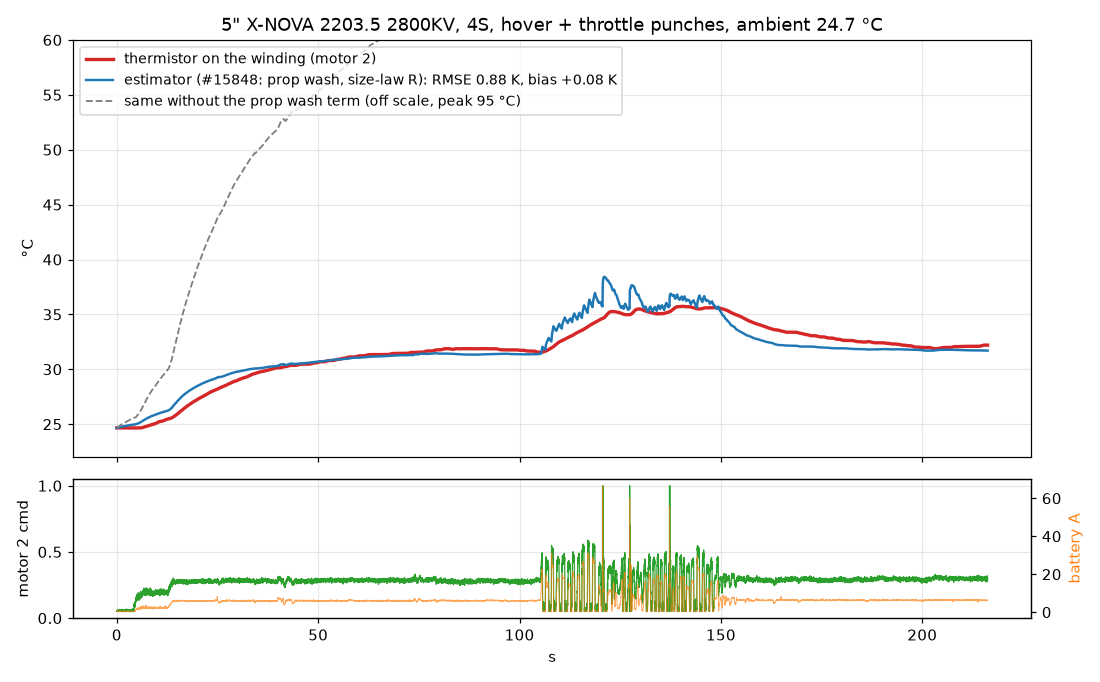
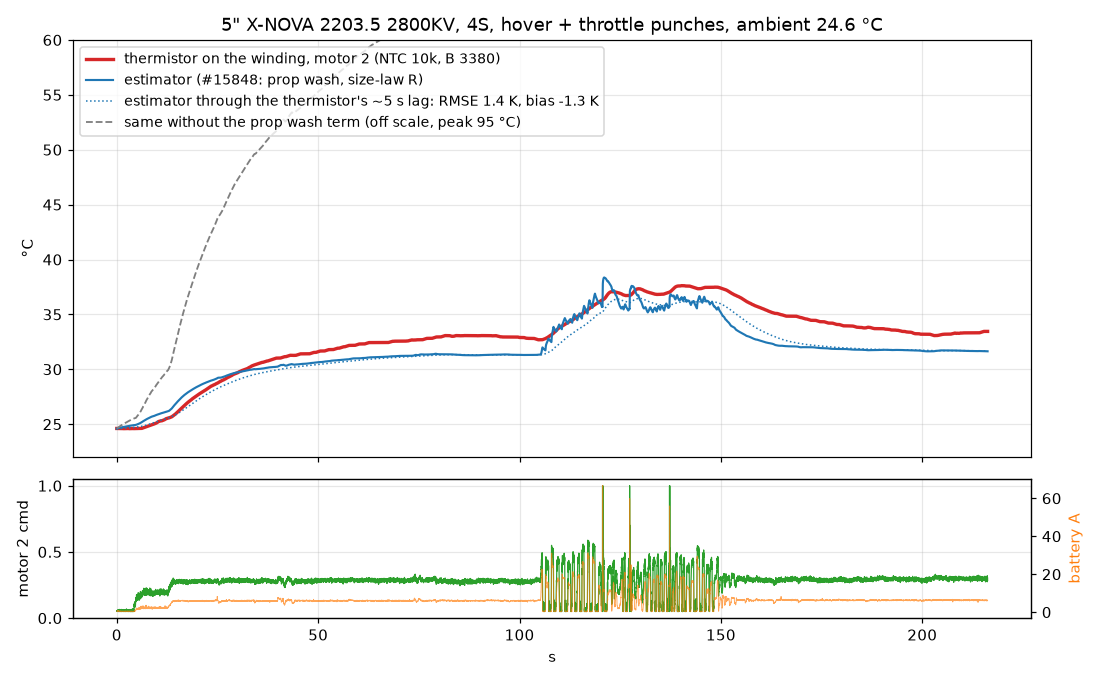
Motor thermal assets: thermistor flight with the part's B 3380
The first version converted the NTC with B 3950; the part (SR Passives NTCM-HP-10K-1%) has B 3380, which reads 2 °C higher at 37 °C. The estimator now reads 10-20 % low on the rise (RMSE 1.6 K).

Changed region(s): [[0.0618, 0.0616, 0.5564, 0.2155], [0.0927, 0.4003, 0.8964, 0.6466]]

diff --git a/motor-thermal/flight-ntc/ntc_replay.py b/motor-thermal/flight-ntc/ntc_replay.py
@@ -25,7 +25,7 @@ a, t, idx = a[::step], t[::step], idx[::step]
 vbat, amps = a[:, 1] * 0.01, a[:, 2] * 0.01 * float(os.environ.get("AMPS_K", "1"))
 cmd = np.clip((a[:, 4:8] - 48) / 1999, 0, 1); rpm = a[:, 8:12] * 100 / (POLES / 2)
 v = np.clip(a[:, 3], 1, 1022); r = 3300 * v / (1023 - v)
-ntc = 1 / (1 / 298.15 + np.log(r / 10000) / 3950) - 273.15
+ntc = 1 / (1 / 298.15 + np.log(r / 10000) / float(os.environ.get("NTC_B", "3950"))) - 273.15
 onboard = a[:, 12:16] / 10
 def run(ev, tamb, t0, extra_env=None):
     path = os.path.join(OUT, "ntc_fl4.csv")

diff --git a/motor-thermal/flight-ntc/ntc_flight.py b/motor-thermal/flight-ntc/ntc_flight.py
@@ -3,7 +3,7 @@ import math, sys
 import numpy as np
 from orangebox import Parser
 
-B, RPULL, R25 = 3950.0, 3300.0, 10000.0
+B, RPULL, R25 = 3380.0, 3300.0, 10000.0
 path, out = sys.argv[1], sys.argv[2]
 p = Parser.load(path)
 names = p.field_names

diff --git a/motor-thermal/flight-ntc/README.md b/motor-thermal/flight-ntc/README.md
@@ -6,7 +6,7 @@ Craft: 5", X-NOVA Lightning V2 2203.5 2800KV, 4S, HAKRCF411D, Bluejay 0.21 ESCs,
 
 ## Sensor
 
-NTC 10k (B 3950) glued with thermal paste and epoxy to the end turns of motor 2, wires along the arm under kapton.
+NTC 10k 1 %, B 3380 K (SR Passives NTCM-HP-10K-1%, epoxy bead Ø3 × 4.5 mm) glued with thermal paste and epoxy to the end turns of motor 2, wires along the arm under kapton.
 Divider on the free TX2 pad (PA2, ADC1_IN2):
 
     3V3 ── 3.3 kΩ ──┬── PA2 (TX2)
@@ -19,8 +19,8 @@ Divider on the free TX2 pad (PA2, ADC1_IN2):
     set blackbox_disable_rssi = OFF
     set debug_mode = MOTOR_THERMAL
 
-The blackbox `rssi` field is the ADC / 4 (v = 0..1023): R_ntc = 3300·v / (1023 − v), T = 1 / (1/298.15 + ln(R/10k) / B) − 273.15.
-At rest the thermistor read 26.3 °C against 26.8 °C on a thermal camera aimed at the same spot.
+The blackbox `rssi` field is the ADC / 4 (v = 0..1023): R_ntc = 3300·v / (1023 − v), T = 1 / (1/298.15 + ln(R/10k) / B) − 273.15, B = 3380.
+At rest the thermistor read 26.5 °C against 26.8 °C on a thermal camera aimed at the same spot.
 
 ## Flight
 
@@ -33,26 +33,30 @@ logged rpm, motor commands, battery voltage and current:
 
 - the current sensor scale was 400 instead of the board's 160: the logged current is multiplied by 2.5 (hover 6 A, ~80 W);
 - the ambient came from the board sensors (gyro / baro / MCU, 34 °C on a board warmed by USB): the replay starts at the
-  thermistor's 24.7 °C. The firmware now asks the ESCs for extended telemetry before arming, so a cold ESC sets the ambient
+  thermistor's 24.6 °C. The firmware now asks the ESCs for extended telemetry before arming, so a cold ESC sets the ambient
   (24–27 °C against 25.8 °C on the thermistor on this craft);
 - the noise index is recomputed from the 1 kHz motor log (the firmware computes it at the PID rate).
 
 ![thermistor vs estimator](../pr-assets/flight_ntc_vs_estimator.png)
 
-| motor 2, whole flight | |
-|---|---|
-| estimator vs thermistor (1 s average) | **RMSE 0.88 K, bias +0.08 K, max 3.7 K** |
-| end of the flight | 31.7 °C vs 32.2 °C |
-| peak during the punches | 38.4 °C at 121 s vs 35.7 °C at 140 s |
-| the same estimator without the prop wash term | RMSE 39.8 K (peak 95 °C) |
+| motor 2 | thermistor | estimator | estimator / thermistor rise |
+|---|---|---|---|
+| hover before the punches (80–100 s), rise | 8.4 K | 6.7 K | 0.80 |
+| end of the punches (140–150 s), rise | 12.9 K | 11.5 K | 0.89 |
+| hover after the punches (200–215 s), rise | 8.6 K | 7.1 K | 0.82 |
+| peak | 37.7 °C | 38.4 °C | |
+| whole flight (1 s average) | | RMSE 1.6 K, bias −1.2 K, max 3.2 K | |
+| the same estimator without the prop wash term | | RMSE 38.5 K (peak 95 °C) | |
 
+The estimator reads 10–20 % low on the rise in this flight. The thermistor lags by a few seconds (glued bead): through a
+5 s first-order lag the estimator gives RMSE 1.4 K, bias −1.3 K, so the lag explains the punch peaks, not the offset.
 No constant was changed for this comparison.
 
 ## Limits
 
 - One flight, one motor, and it is the 2203.5 the bench calibration was made on: this checks the in-flight physics
   (prop wash, airflow, current split), not the size scaling.
-- Mild heating (+11 K); a hot flight (sustained full throttle) is not covered yet.
+- Mild heating (+13 K); a hot flight (sustained full throttle) is not covered yet.
 - The current scale 160 is the board default, not checked against a charger yet.
 - The thermistor sits on the surface of the end turns and lags; part of the 3.7 K peak difference may be the sensor.
 - Next: the same flight on the new build (on-board estimate directly against the thermistor), then another motor size.
@@ -60,7 +64,7 @@ No constant was changed for this comparison.
 ## Reproduce
 
     python ntc_flight.py ntc_hover_20261022.bbl out          # thermistor and on-board debug, per 20 s
-    AMPS_K=2.5 python ntc_replay.py ntc_hover_20261022.bbl out EVAL_OLD EVAL_NEW
+    NTC_B=3380 AMPS_K=2.5 python ntc_replay.py ntc_hover_20261022.bbl out EVAL_OLD EVAL_NEW
 
 `EVAL_*` are host builds of `flight/motor_thermal.c` (four-motor driver around the firmware file, as used for the bench
 validation); `orangebox` parses the log.

diff --git a/motor-thermal/RESULTS.md b/motor-thermal/RESULTS.md
@@ -299,7 +299,8 @@ Committed as fdb4018d3 on #15848 and merged into #15851.
 
 [flight-ntc/README.md](flight-ntc/README.md): 5" 2203.5, NTC on motor 2's end turns, hover and throttle punches. The
 current firmware estimator, replayed on the logged data with the board's current scale and the thermistor's ambient,
-follows the thermistor with RMSE 0.88 K (bias +0.08 K, max 3.7 K) over 216 s; without the prop wash term it is 39.8 K off.
+follows the thermistor (NTC 10k, B 3380) with RMSE 1.6 K over 216 s and reads 10–20 % low on the rise (hover 6.7–7.1 K
+against 8.4–8.6 K); without the prop wash term it is 38.5 K off.
 One flight on the reference motor size; the size scaling still needs a flight on another motor.
 
 # Session 6, 2026-10-22: 1540 motors, resistance size law, database reduced to KV / stator / magnets
